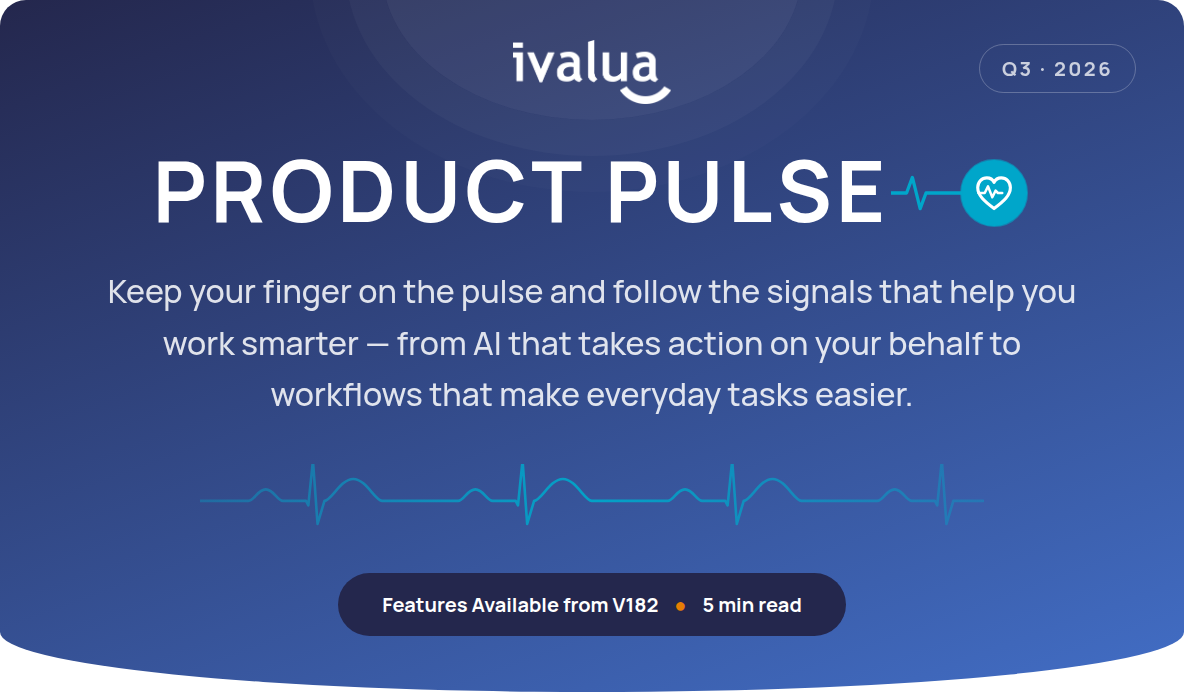
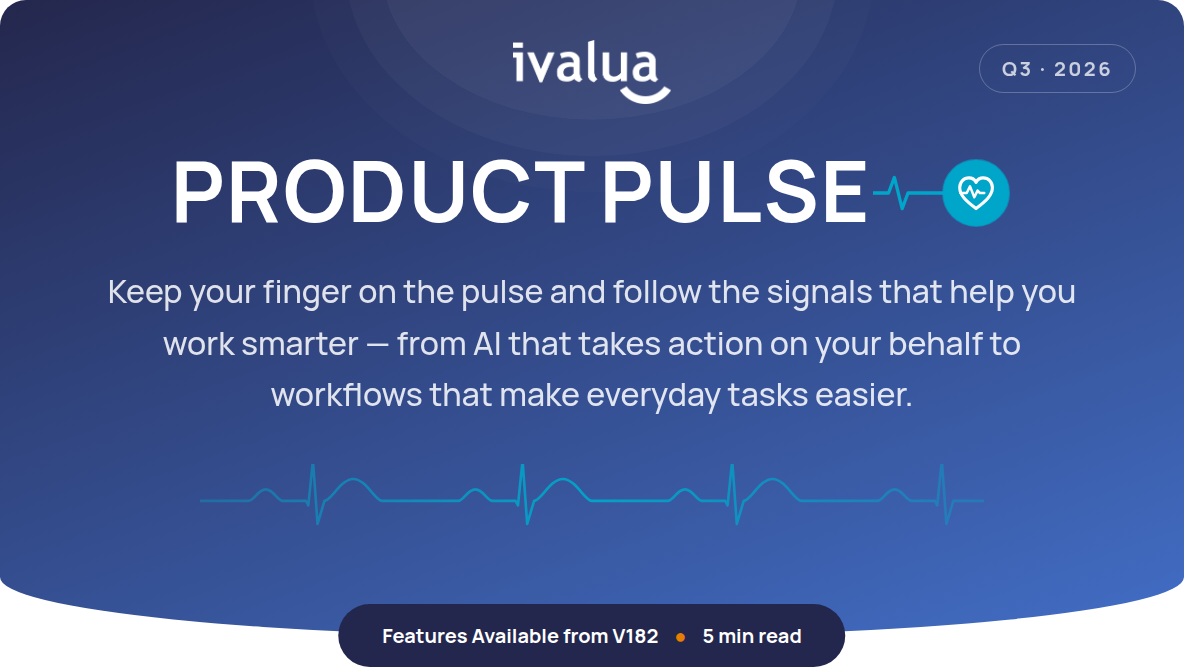
Hero: tighten title spacing, pill straddles the bottom curve again
Claude-Session: https://claude.ai/code/session_01JX6sXjeg33BNGLjW5NAsjY

diff --git a/hero.html b/hero.html
@@ -11,7 +11,7 @@
     position:relative; overflow:hidden; max-width:1184px; margin:0 auto;
     background:linear-gradient(160deg, #24274d 0%, #426EC6 100%);
     border-radius:26px 26px 50% 50% / 26px 26px 60px 60px;
-    text-align:center; color:#FFFFFF; padding:0 48px 56px;
+    text-align:center; color:#FFFFFF; padding:0 48px 64px;
   }
   .dome{ position:absolute; top:-170px; left:50%; transform:translateX(-50%);
     width:420px; height:270px; border-radius:50%; background:rgba(20,24,60,0.35); }
@@ -20,11 +20,12 @@
   .logo{ position:relative; display:block; margin:40px auto 0; height:64px; filter:brightness(0) invert(1); }
   .kicker{ position:absolute; top:44px; right:48px; padding:10px 22px; border:1px solid rgba(255,255,255,0.25);
     border-radius:999px; font-size:20px; font-weight:700; letter-spacing:0.12em; color:rgba(255,255,255,0.75); }
-  h1{ position:relative; margin:44px 0 32px; font-size:84px; font-weight:800; line-height:1; letter-spacing:0.05em; }
+  h1{ position:relative; margin:44px 0 32px; font-size:84px; font-weight:800; line-height:1; letter-spacing:0.02em; word-spacing:-0.04em; }
   h1 .heart{ display:inline-block; vertical-align:middle; margin-left:2px; position:relative; top:-6px; }
   .sub{ position:relative; max-width:980px; margin:0 auto; font-size:32px; line-height:1.6; font-weight:500; color:rgba(255,255,255,0.85); }
   .ekg{ display:block; width:72%; margin:44px auto 40px; }
-  .pill{ position:relative; display:inline-block; padding:18px 44px; border-radius:999px; background:#24274d;
+  .banner{ position:relative; max-width:1184px; margin:0 auto; padding-bottom:30px; text-align:center; }
+  .pill{ position:absolute; bottom:0; left:50%; transform:translateX(-50%); white-space:nowrap; display:inline-block; padding:18px 44px; border-radius:999px; background:#24274d;
     font-size:20px; font-weight:700; color:#FFFFFF; }
   .pill .dot{ color:#e67e04; margin:0 16px; }
   @media (max-width:700px){
@@ -37,6 +38,7 @@
 </style>
 </head>
 <body>
+  <div class="banner">
   <header class="hero">
     <div class="dome"></div>
     <img class="logo" src="ivalua-logo.png" alt="Ivalua">
@@ -63,7 +65,8 @@
         stroke="url(#ekgGrad)" stroke-width="2.25" fill="none" stroke-linecap="round" stroke-linejoin="round"/>
     </svg>
 
-    <span class="pill">Features Available from V182<span class="dot">●</span>5 min read</span>
   </header>
+  <span class="pill">Features Available from V182<span class="dot">●</span>5 min read</span>
+  </div>
 </body>
 </html>
